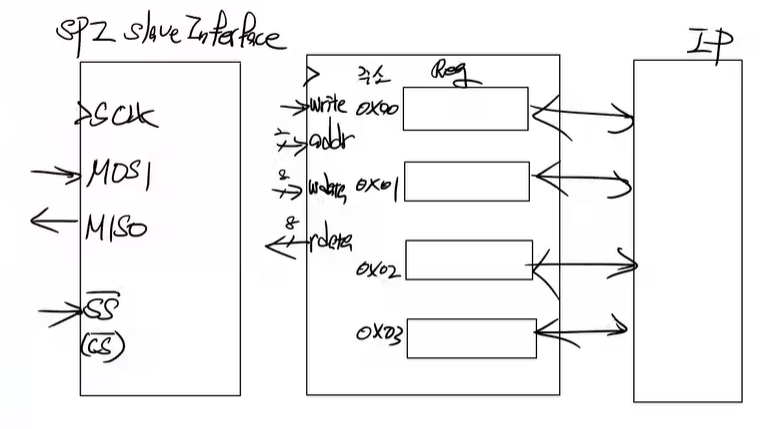
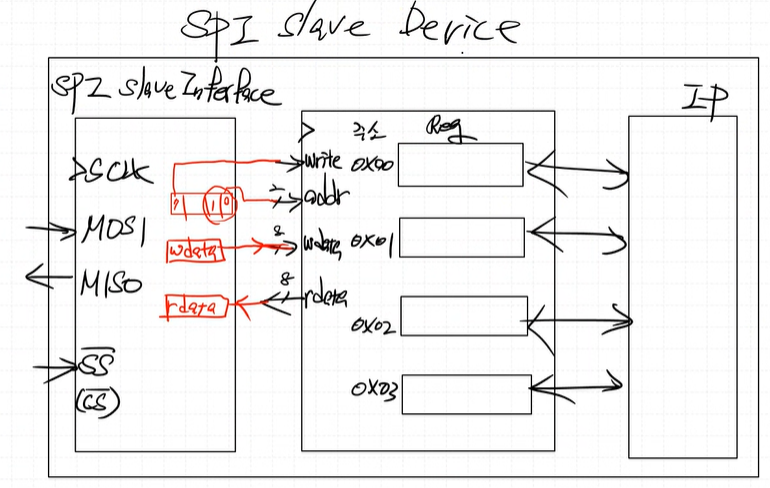
SPI_Slave 모듈 인터페이스 추가 및 문서 개선

Changed region(s): [[0.0312, 0.0, 0.9675, 0.9394], [0.0624, 0.9697, 0.9987, 1.0]]

diff --git a/3.AXILite/SPI/readme.md b/3.AXILite/SPI/readme.md
@@ -11,70 +11,72 @@ SPI mode 3은 SCLK이 high 일때 까지 delay 유지
 기본적으로 `CPOL == 0` 을 기준으로 `r_sclk`의 값을 정의하고, `CPOL == 1`이면 기존 `r_sclk` 값을 반전한다.
 
 ### SPI master simulation 결과
-**CPOL = 0, CPHA = 0, Mode =0**
+**CPOL = 0, CPHA = 0, Mode =0**  
 ![](case1.png)
-state 1이 존재하지 않고 바로 CP0 CP1 상태가 나오는 것을 확인할 수 있다.
-delay X, CP1일 때 High.
+state 1이 존재하지 않고 바로 CP0 CP1 상태가 나오는 것을 확인할 수 있다.  
+delay X, CP1일 때 High.  
 
-**CPOL = 0, CPHA = 1, Mode = 1**
-![](case2.png)
-state 1이 존재하여 delay가 된 후 CP0 CP1 상태가 번갈아 나가는 것을 확인할 수 있다.
-delay 존재, CP0일 때 High.
+**CPOL = 0, CPHA = 1, Mode = 1**  
+![](case2.png)  
+state 1이 존재하여 delay가 된 후 CP0 CP1 상태가 번갈아 나가는 것을 확인할 수 있다.  
+delay 존재, CP0일 때 High.  
 
-**CPOL = 1, CPHA = 0, Mode = 2**
-![](case3.png)
+**CPOL = 1, CPHA = 0, Mode = 2**  
+![](case3.png)  
 delay X, CP0 일 때 High
 
-**CPOL = 1, CPHA = 1, Mode = 3**
-![](case4.png)
-delay 존재, CP1 일 때 High.
+**CPOL = 1, CPHA = 1, Mode = 3**  
+![](case4.png)  
+delay 존재, CP1 일 때 High.  
 
 
 ## SPI Slave mode 설정하기
-slave에 따라 mode 설정이 다르고 정해져있다.
-Slave에서 CPHA, CPOL을 설정하는 경우는 없다(고정되어서 나온다.) 
-slave에 따라서 master가 알맞는 CPHA, CPOL을 설정해야 한다.
+slave에 따라 mode 설정이 다르고 정해져있다.  
+Slave에서 CPHA, CPOL을 설정하는 경우는 없다(고정되어서 나온다.)   
+slave에 따라서 master가 알맞는 CPHA, CPOL을 설정해야 한다.  
 
-- ex 1) mt41t93의 경우 CPOL=0, CPHA=0으로 설정하는 slave임
-![](mt41t93.png)
+- ex 1) mt41t93의 경우 CPOL=0, CPHA=0으로 설정하는 slave임  
+![](mt41t93.png)  
 
-ex) rtc register map (시계 칩이다!.. 근데 SPI를 사용하는..)
-![](rtc_registerMap.png)
+ex) rtc register map (시계 칩이다!.. 근데 SPI를 사용하는..)  
+![](rtc_registerMap.png)  
 
 
 # 상용 spi doc 참고하여 spi slave 설계 (rtc chip)
-![](img1.png)
-addr의 MSB를 보고 read mode인지 write mode인지 결정한다.
+![](img1.png)  
+addr의 MSB를 보고 read mode인지 write mode인지 결정한다.  
 - 1이면 write mode, 0이면 read mode
 
-## write/read mode
+## write/read mode 
 ### read mode
-![](readmode.png)
-주소를 받고, 그 다음 해당 주소의 data를 보낸다.
-read시 dummy data를 보내야 하는데, read mode 일 때는 dummy data를 저장하면 안된다.
+![](readmode.png)  
+주소를 받고, 그 다음 해당 주소의 data를 보낸다.  
+read시 dummy data를 보내야 하는데, read mode 일 때는 dummy data를 저장하면 안된다.  
 
 **read state machine**
 ![](readFSM.png)
 
 ### write mode
-![](writemode.png)
-SPI slave에 register 들이 존재하고, master가 write 하기 위해 register를 select 해야한다.
-따라서 먼저 주소를 보내고, 그 다음 data를 보낸다.
+![](writemode.png)  
+SPI slave에 register 들이 존재하고, master가 write 하기 위해 register를 select 해야한다.  
+따라서 먼저 주소를 보내고, 그 다음 data를 보낸다.  
 
-![](writemode2.png)
-사실 write mode에서 쓰기와 읽기가 동시에 일어나게 된다.
-(주소를 보내고, SDO로 data가 들어오니까)
+![](writemode2.png)  
+사실 write mode에서 쓰기와 읽기가 동시에 일어나게 된다.  
+(주소를 보내고, SDO로 data가 들어오니까)  
 
 **write state machine**
 
 
-## SPI slave Interface 모듈 설계
-![](schematic.png)
+## SPI slave Device 모듈 설계
+![](schematic.png)  
+IP가 위에 참고한 상용칩처럼 rtc가 될수도 있고, mt41t93처럼 memory chip이 될수도 있다. (설계하기 나름)  
+
 - register addr
-총 4개의 register가 존재하고, 각각의 register는 8bit이다.  
-들어오는 addr의 MSB를 통해 read/write mode 결정하고, LSB 쪽 2 bit은 reigster address로 사용한다.
+총 4개의 register가 존재하고, 각각의 register는 8bit이다.   
+들어오는 addr의 MSB를 통해 read/write mode 결정하고, LSB 쪽 2 bit은 reigster address로 사용한다.  
 
 - register write data
-addr의 MSB가 1인 경우, 2번째 들어오는 data부터 저장한다.
+addr의 MSB가 1인 경우, 2번째 들어오는 data부터 저장한다.  
 
 - register read data
